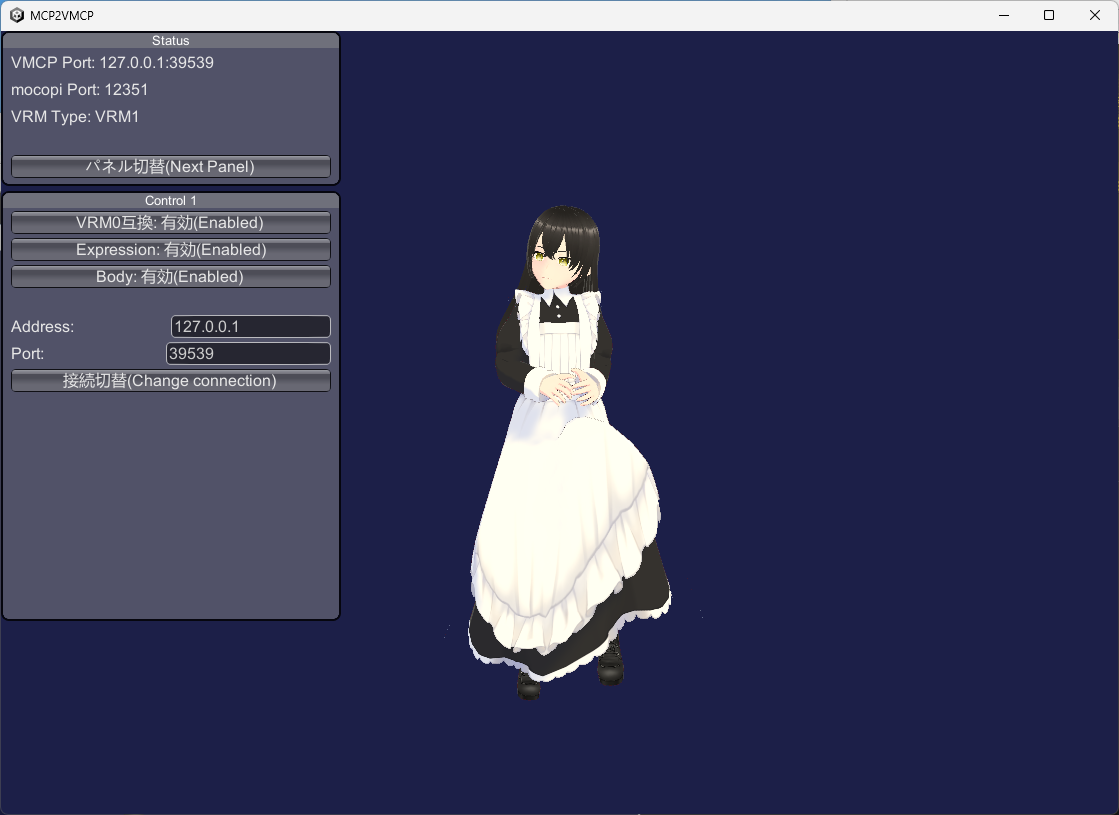
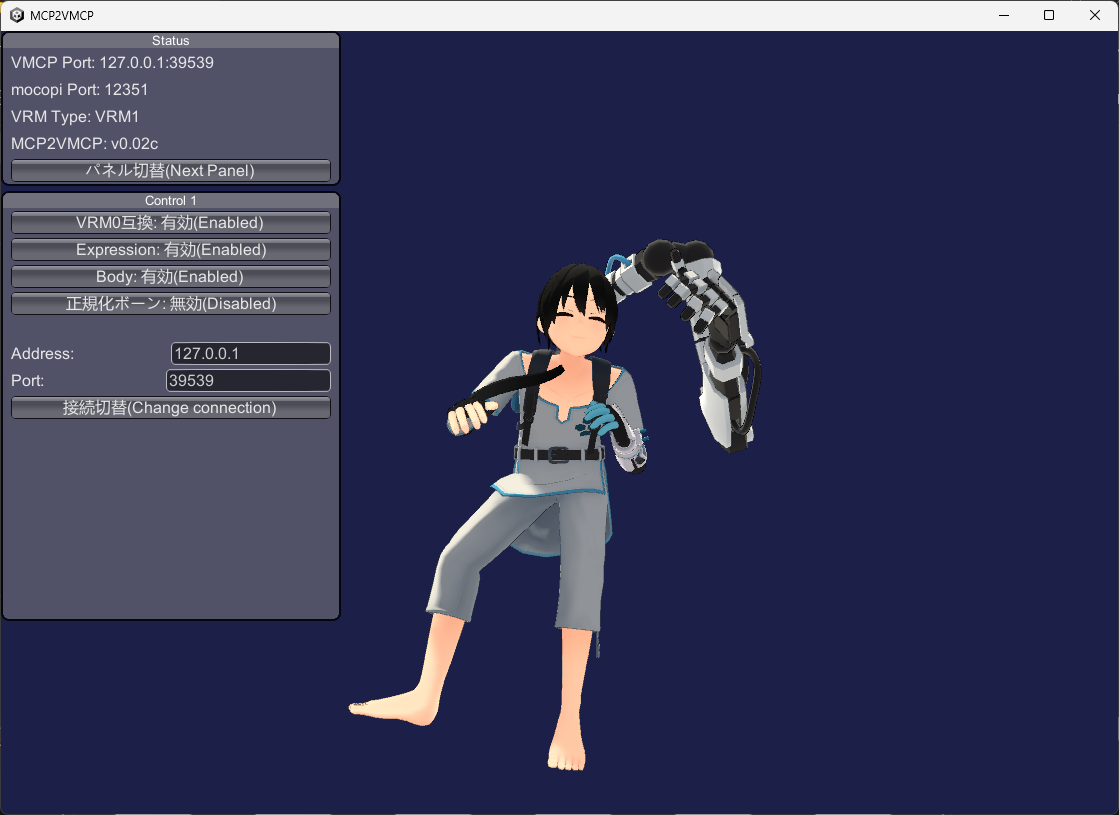
VRM1ボーン修正

Changed region(s): [[0.3038, 0.2454, 0.6988, 0.9509], [0.0, 0.3374, 0.3038, 0.5215], [0.0, 0.1534, 0.3038, 0.2454]]

diff --git a/README.md b/README.md
@@ -6,7 +6,7 @@
 
 ※配信に耐えうる高度な機能や高品質さを求める場合は、Sony公式でも紹介されている[バーチャルモーションキャプチャー](https://vmc.info/)を推奨します。
 
-v0.02: テンキー操作により表情を操作する機能と、接続先を変更する機能、ファイル読み込みダイアログなどを実装しました。
+v0.02c: VRM1のボーンセットアップが不完全な問題を修正、テンキー操作により表情を操作する機能と、接続先を変更する機能、ファイル読み込みダイアログなどを実装しました。
 
 **[ダウンロード](https://github.com/gpsnmeajp/MCP2VMCP/releases)**  
 
